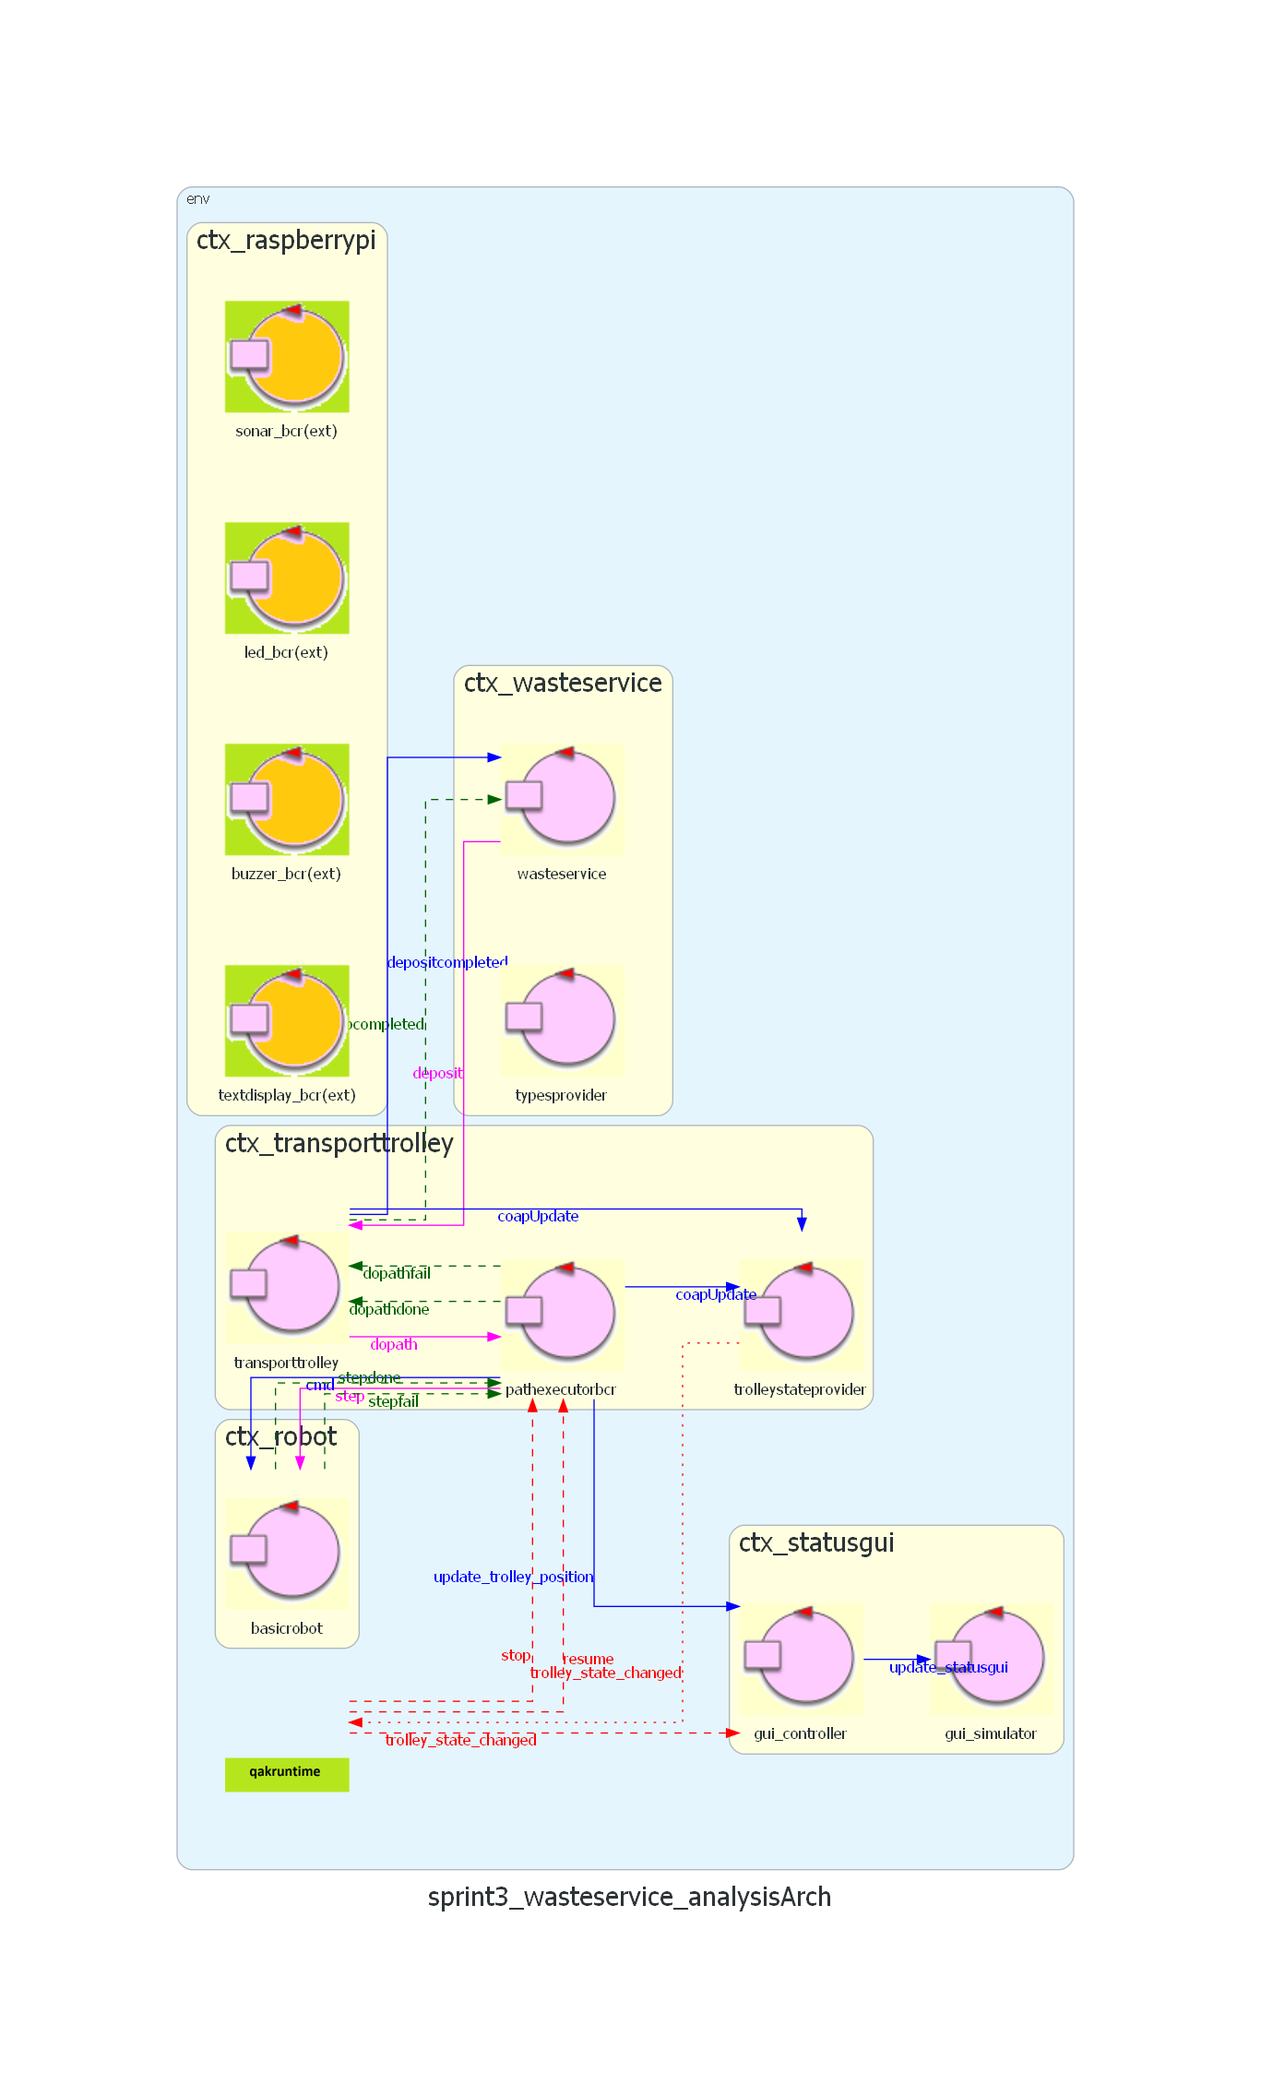
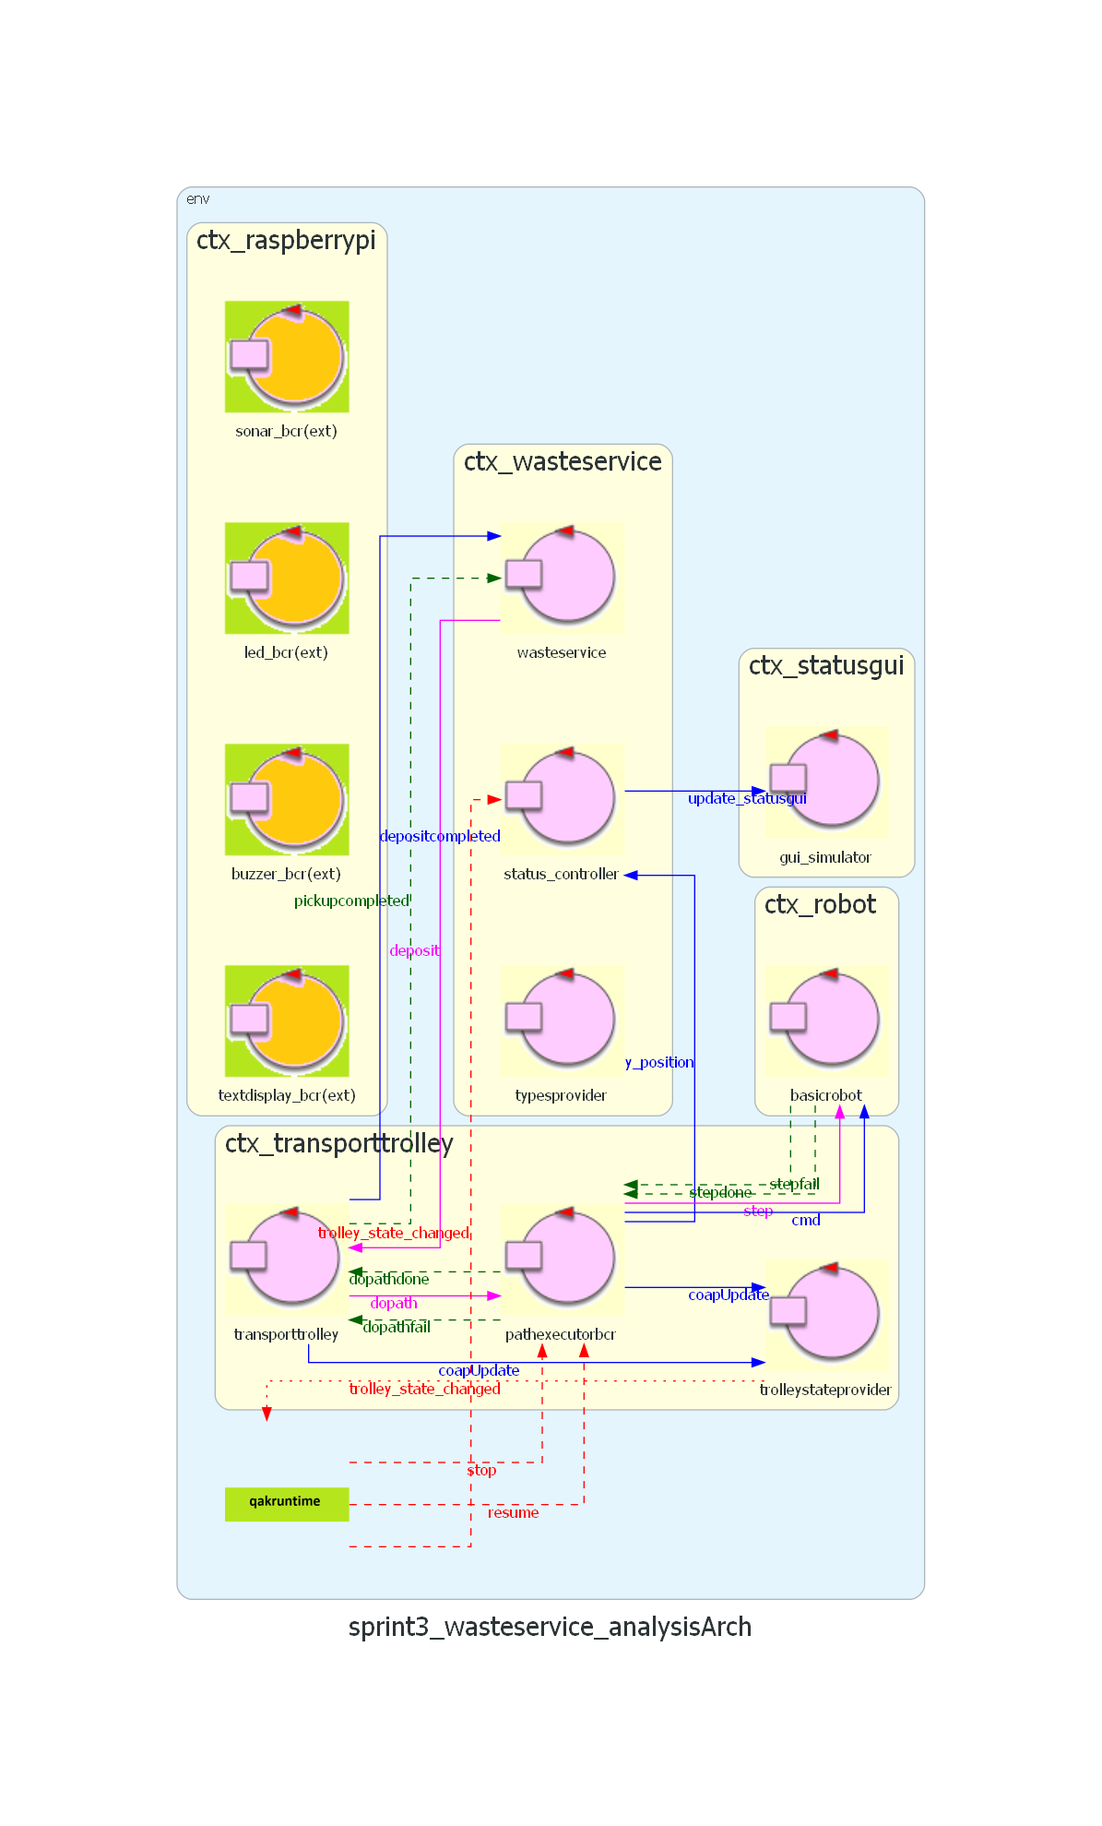
update sprint3 problem analysis

diff --git a/Sprint3/Sprint3_ProblemAnalysis/src/it/unibo/status_controller/Status_controller.kt b/Sprint3/Sprint3_ProblemAnalysis/src/it/unibo/status_controller/Status_controller.kt
@@ -1,0 +1,112 @@
+/* Generated by AN DISI Unibo */ 
+package it.unibo.status_controller
+
+import it.unibo.kactor.*
+import alice.tuprolog.*
+import kotlinx.coroutines.CoroutineScope
+import kotlinx.coroutines.delay
+import kotlinx.coroutines.launch
+import kotlinx.coroutines.runBlocking
+	
+class Status_controller ( name: String, scope: CoroutineScope  ) : ActorBasicFsm( name, scope ){
+
+	override fun getInitialState() : String{
+		return "state_init"
+	}
+	override fun getBody() : (ActorBasicFsm.() -> Unit){
+		val interruptedStateTransitions = mutableListOf<Transition>()
+		
+				var status: wasteservice.gui.StatusUpdate = wasteservice.gui.StatusUpdate()
+		return { //this:ActionBasciFsm
+				state("state_init") { //this:State
+					action { //it:State
+						println("[GUIcontroller] Started.")
+						//genTimer( actor, state )
+					}
+					//After Lenzi Aug2002
+					sysaction { //it:State
+					}	 	 
+					 transition( edgeName="goto",targetState="state_idle", cond=doswitch() )
+				}	 
+				state("state_idle") { //this:State
+					action { //it:State
+						println("[GUIcontroller] Idle.")
+						//genTimer( actor, state )
+					}
+					//After Lenzi Aug2002
+					sysaction { //it:State
+					}	 	 
+					 transition(edgeName="t05",targetState="state_update_storage",cond=whenDispatch("update_ws_storage"))
+					transition(edgeName="t06",targetState="state_update_led",cond=whenEvent("trolley_state_changed"))
+					transition(edgeName="t07",targetState="state_update_tt",cond=whenDispatch("update_trolley_position"))
+				}	 
+				state("state_update_storage") { //this:State
+					action { //it:State
+						if( checkMsgContent( Term.createTerm("update_ws_storage(TYPE,AMOUNT)"), Term.createTerm("update_ws_storage(TYPE,AMOUNT)"), 
+						                        currentMsg.msgContent()) ) { //set msgArgList
+								
+												val WasteType = payloadArg(0)
+												val WasteAmount = payloadArg(1).toDouble()
+								println("[GUIcontroller] Storage state changed: $WasteAmount KG of $WasteType")
+								if(  WasteType == "PLASTIC"  
+								 ){ status.setCurrentPlastic(WasteAmount)  
+								}
+								if(  WasteType == "GLASS"  
+								 ){ status.setCurrentGlass(WasteAmount)  
+								}
+						}
+						//genTimer( actor, state )
+					}
+					//After Lenzi Aug2002
+					sysaction { //it:State
+					}	 	 
+					 transition( edgeName="goto",targetState="state_update_gui", cond=doswitch() )
+				}	 
+				state("state_update_led") { //this:State
+					action { //it:State
+						if( checkMsgContent( Term.createTerm("trolley_state_changed(STATE)"), Term.createTerm("trolley_state_changed(STATE)"), 
+						                        currentMsg.msgContent()) ) { //set msgArgList
+								
+												val NewState = payloadArg(0)
+								println("[GUIcontroller] Trolley state changed: $NewState")
+								 status.setLedState(wasteservice.Utils.getLedStateFromTrolleyState(NewState).toString())  
+								 status.setTransportTrolleyState(NewState)  
+						}
+						//genTimer( actor, state )
+					}
+					//After Lenzi Aug2002
+					sysaction { //it:State
+					}	 	 
+					 transition( edgeName="goto",targetState="state_update_gui", cond=doswitch() )
+				}	 
+				state("state_update_tt") { //this:State
+					action { //it:State
+						if( checkMsgContent( Term.createTerm("update_trolley_position(X,Y)"), Term.createTerm("update_trolley_position(X,Y)"), 
+						                        currentMsg.msgContent()) ) { //set msgArgList
+								
+												val X = payloadArg(0).toInt()
+												val Y = payloadArg(1).toInt()
+								println("[WasteService] Trolley position changed: ($X, $Y)")
+								 status.setTransportTrolleyPosition(X, Y)  
+						}
+						//genTimer( actor, state )
+					}
+					//After Lenzi Aug2002
+					sysaction { //it:State
+					}	 	 
+					 transition( edgeName="goto",targetState="state_update_gui", cond=doswitch() )
+				}	 
+				state("state_update_gui") { //this:State
+					action { //it:State
+						println("[GUIcontroller] Sent a new update for the GUI.")
+						forward("update_statusgui", "update_statusgui" ,"gui_simulator" ) 
+						//genTimer( actor, state )
+					}
+					//After Lenzi Aug2002
+					sysaction { //it:State
+					}	 	 
+					 transition( edgeName="goto",targetState="state_idle", cond=doswitch() )
+				}	 
+			}
+		}
+}

diff --git a/Sprint3/Sprint3_ProblemAnalysis/src/it/unibo/pathexecutorbcr/Pathexecutorbcr.kt b/Sprint3/Sprint3_ProblemAnalysis/src/it/unibo/pathexecutorbcr/Pathexecutorbcr.kt
@@ -42,8 +42,8 @@ class Pathexecutorbcr ( name: String, scope: CoroutineScope  ) : ActorBasicFsm( 
 					//After Lenzi Aug2002
 					sysaction { //it:State
 					}	 	 
-					 transition(edgeName="t014",targetState="state_do_path",cond=whenRequest("dopath"))
-					transition(edgeName="t015",targetState="state_stop",cond=whenEvent("stop"))
+					 transition(edgeName="t017",targetState="state_do_path",cond=whenRequest("dopath"))
+					transition(edgeName="t018",targetState="state_stop",cond=whenEvent("stop"))
 				}	 
 				state("state_do_path") { //this:State
 					action { //it:State
@@ -89,7 +89,7 @@ class Pathexecutorbcr ( name: String, scope: CoroutineScope  ) : ActorBasicFsm( 
 						
 									val X = plannerBCR.get_curPos().first
 									val Y = plannerBCR.get_curPos().second
-						forward("update_trolley_position", "update_trolley_position($X,$Y)" ,"gui_controller" ) 
+						forward("update_trolley_position", "update_trolley_position($X,$Y)" ,"status_controller" ) 
 						//genTimer( actor, state )
 					}
 					//After Lenzi Aug2002
@@ -109,9 +109,9 @@ class Pathexecutorbcr ( name: String, scope: CoroutineScope  ) : ActorBasicFsm( 
 					//After Lenzi Aug2002
 					sysaction { //it:State
 					}	 	 
-					 transition(edgeName="t116",targetState="state_stop",cond=whenEvent("stop"))
-					transition(edgeName="t117",targetState="state_next_move",cond=whenReply("stepdone"))
-					transition(edgeName="t118",targetState="state_end_work_fail",cond=whenReply("stepfail"))
+					 transition(edgeName="t119",targetState="state_stop",cond=whenEvent("stop"))
+					transition(edgeName="t120",targetState="state_next_move",cond=whenReply("stepdone"))
+					transition(edgeName="t121",targetState="state_end_work_fail",cond=whenReply("stepfail"))
 				}	 
 				state("state_do_move_turn") { //this:State
 					action { //it:State
@@ -125,8 +125,8 @@ class Pathexecutorbcr ( name: String, scope: CoroutineScope  ) : ActorBasicFsm( 
 				 	 			scope, context!!, "local_tout_pathexecutorbcr_state_do_move_turn", 350.toLong() )
 				 	 		//}
 					}	 	 
-					 transition(edgeName="t219",targetState="state_next_move",cond=whenTimeout("local_tout_pathexecutorbcr_state_do_move_turn"))   
-					transition(edgeName="t220",targetState="state_stop",cond=whenEvent("stop"))
+					 transition(edgeName="t222",targetState="state_next_move",cond=whenTimeout("local_tout_pathexecutorbcr_state_do_move_turn"))   
+					transition(edgeName="t223",targetState="state_stop",cond=whenEvent("stop"))
 				}	 
 				state("state_end_work_ok") { //this:State
 					action { //it:State
@@ -164,7 +164,7 @@ class Pathexecutorbcr ( name: String, scope: CoroutineScope  ) : ActorBasicFsm( 
 					//After Lenzi Aug2002
 					sysaction { //it:State
 					}	 	 
-					 transition(edgeName="t321",targetState="state_resume",cond=whenEvent("resume"))
+					 transition(edgeName="t324",targetState="state_resume",cond=whenEvent("resume"))
 				}	 
 				state("state_resume") { //this:State
 					action { //it:State

diff --git a/Sprint2/resources/userDocs/problem_analysis.html b/Sprint2/resources/userDocs/problem_analysis.html
@@ -242,7 +242,7 @@ public interface IDistance {
                 <b>Solution</b>: Exploit the project <ksi>it.unibo.radarSystem22.domain</ksi> and/or
                 make changes to it to obtain a more suitable piece of software to be integrated in the
                 system.
-                <br/>
+                <br/><br/>
                 <b>Reasons</b>: the possibility to have simulated devices makes it easier to
                 test the system without having to deploy on a real Raspberry Pi.
                 The project already implements the features we need to satisfy the requirements,
@@ -283,7 +283,7 @@ public interface IDistance {
             <solution>
                 <b>Solution</b>: Hybrid approach, using a <ksi>middle controller</ksi>, which sends 
                 <code>stop</code> and <code>resume</code> events to the system.
-                <br/>
+                <br/><br/>
                 <b>Reasons</b>: the core-business doesn't care about the distance at all.
                 In fact, from the Waste Service perspective,
                 the sonar acts as a simple switch ON/OFF, which indicates if the system
@@ -335,7 +335,7 @@ public interface IDistance {
             <solution>
                 <b>Solution</b>: for each step of the path, check if there is a stop/alarm event <ksi>only at the beginning or
                 at the end of the step</ksi>.
-                <br/>
+                <br/><br/>
                 <b>Reasons</b>: the robot position gets updated only when a step is completed,
                 so it might be easier to make the steps not interruptible; since our map
                 has specific positions, identified by discrete coordinates, that solution
@@ -358,7 +358,7 @@ public interface IDistance {
             <solution>
                 <b>Solution</b>: <ksi>handle the stop and resume from the pathexecutor</ksi> by adding a guard
                 (<code>Transition t# whenEvent stop -> state_stop</code>) in those states that can be interrupted.
-                <br/>
+                <br/><br/>
                 <b>Reasons</b>: ideally we want to act on the transport trolley, but it's busy waiting
                 for the pathexecutor reply, until the path is completed. Therefore, since the pathexecutor
                 is the one responsible for scheduling the steps, to interact with it is the best solution,

diff --git a/Sprint3/Sprint3_ProblemAnalysis/src/it/unibo/transporttrolley/Transporttrolley.kt b/Sprint3/Sprint3_ProblemAnalysis/src/it/unibo/transporttrolley/Transporttrolley.kt
@@ -49,7 +49,7 @@ class Transporttrolley ( name: String, scope: CoroutineScope  ) : ActorBasicFsm(
 					//After Lenzi Aug2002
 					sysaction { //it:State
 					}	 	 
-					 transition(edgeName="t05",targetState="state_handle_deposit_request",cond=whenRequest("deposit"))
+					 transition(edgeName="t08",targetState="state_handle_deposit_request",cond=whenRequest("deposit"))
 				}	 
 				state("state_handle_deposit_request") { //this:State
 					action { //it:State
@@ -85,8 +85,8 @@ class Transporttrolley ( name: String, scope: CoroutineScope  ) : ActorBasicFsm(
 					//After Lenzi Aug2002
 					sysaction { //it:State
 					}	 	 
-					 transition(edgeName="t16",targetState="state_pickup",cond=whenReply("dopathdone"))
-					transition(edgeName="t17",targetState="state_error",cond=whenReply("dopathfail"))
+					 transition(edgeName="t19",targetState="state_pickup",cond=whenReply("dopathdone"))
+					transition(edgeName="t110",targetState="state_error",cond=whenReply("dopathfail"))
 				}	 
 				state("state_pickup") { //this:State
 					action { //it:State
@@ -120,8 +120,8 @@ class Transporttrolley ( name: String, scope: CoroutineScope  ) : ActorBasicFsm(
 					//After Lenzi Aug2002
 					sysaction { //it:State
 					}	 	 
-					 transition(edgeName="t28",targetState="state_dump",cond=whenReply("dopathdone"))
-					transition(edgeName="t29",targetState="state_error",cond=whenReply("dopathfail"))
+					 transition(edgeName="t211",targetState="state_dump",cond=whenReply("dopathdone"))
+					transition(edgeName="t212",targetState="state_error",cond=whenReply("dopathfail"))
 				}	 
 				state("state_dump") { //this:State
 					action { //it:State
@@ -155,8 +155,8 @@ class Transporttrolley ( name: String, scope: CoroutineScope  ) : ActorBasicFsm(
 					//After Lenzi Aug2002
 					sysaction { //it:State
 					}	 	 
-					 transition(edgeName="t310",targetState="state_idle",cond=whenReply("dopathdone"))
-					transition(edgeName="t311",targetState="state_error",cond=whenReply("dopathfail"))
+					 transition(edgeName="t313",targetState="state_idle",cond=whenReply("dopathdone"))
+					transition(edgeName="t314",targetState="state_error",cond=whenReply("dopathfail"))
 				}	 
 				state("state_error") { //this:State
 					action { //it:State

diff --git a/Sprint3/Sprint3_ProblemAnalysis/src/it/unibo/basicrobot/Basicrobot.kt b/Sprint3/Sprint3_ProblemAnalysis/src/it/unibo/basicrobot/Basicrobot.kt
@@ -50,10 +50,10 @@ class Basicrobot ( name: String, scope: CoroutineScope  ) : ActorBasicFsm( name,
 					//After Lenzi Aug2002
 					sysaction { //it:State
 					}	 	 
-					 transition(edgeName="t122",targetState="execcmd",cond=whenDispatch("cmd"))
-					transition(edgeName="t123",targetState="doStep",cond=whenRequest("step"))
-					transition(edgeName="t124",targetState="handleObstacle",cond=whenDispatch("obstacle"))
-					transition(edgeName="t125",targetState="endwork",cond=whenDispatch("end"))
+					 transition(edgeName="t125",targetState="execcmd",cond=whenDispatch("cmd"))
+					transition(edgeName="t126",targetState="doStep",cond=whenRequest("step"))
+					transition(edgeName="t127",targetState="handleObstacle",cond=whenDispatch("obstacle"))
+					transition(edgeName="t128",targetState="endwork",cond=whenDispatch("end"))
 				}	 
 				state("execcmd") { //this:State
 					action { //it:State
@@ -114,8 +114,8 @@ class Basicrobot ( name: String, scope: CoroutineScope  ) : ActorBasicFsm( name,
 				 	 			scope, context!!, "local_tout_basicrobot_doStep", StepTime )
 				 	 		//}
 					}	 	 
-					 transition(edgeName="t026",targetState="stepDone",cond=whenTimeout("local_tout_basicrobot_doStep"))   
-					transition(edgeName="t027",targetState="stepFail",cond=whenDispatch("obstacle"))
+					 transition(edgeName="t029",targetState="stepDone",cond=whenTimeout("local_tout_basicrobot_doStep"))   
+					transition(edgeName="t030",targetState="stepFail",cond=whenDispatch("obstacle"))
 				}	 
 				state("stepDone") { //this:State
 					action { //it:State

diff --git a/Sprint3/Sprint3_ProblemAnalysis/src/it/unibo/trolleystateprovider/Trolleystateprovider.kt b/Sprint3/Sprint3_ProblemAnalysis/src/it/unibo/trolleystateprovider/Trolleystateprovider.kt
@@ -37,8 +37,8 @@ class Trolleystateprovider ( name: String, scope: CoroutineScope  ) : ActorBasic
 					//After Lenzi Aug2002
 					sysaction { //it:State
 					}	 	 
-					 transition(edgeName="t012",targetState="state_update_trolley_state",cond=whenDispatch("coapUpdate"))
-					transition(edgeName="t013",targetState="state_update_trolley_state",cond=whenDispatch("update_trolley_state"))
+					 transition(edgeName="t015",targetState="state_update_trolley_state",cond=whenDispatch("coapUpdate"))
+					transition(edgeName="t016",targetState="state_update_trolley_state",cond=whenDispatch("update_trolley_state"))
 				}	 
 				state("state_update_trolley_state") { //this:State
 					action { //it:State

diff --git a/Sprint3/Sprint3_ProblemAnalysis/src/it/unibo/wasteservice/Wasteservice.kt b/Sprint3/Sprint3_ProblemAnalysis/src/it/unibo/wasteservice/Wasteservice.kt
@@ -134,6 +134,9 @@ class Wasteservice ( name: String, scope: CoroutineScope  ) : ActorBasicFsm( nam
 									WasteService.addToStorage(RequestedWasteType, RequestedWasteWeight)
 									
 									WaitingDeposit = false
+									
+									val CurrAmount = WasteService.getCurrentStorageForWasteType(RequestedWasteType)
+						forward("update_ws_storage", "update_ws_storage(CurrAmount)" ,"status_controller" ) 
 						println("[WasteService] Deposit completed. Current storage:")
 						 WasteService.printFancyStatusString()  
 						//genTimer( actor, state )

diff --git a/Sprint3/Sprint3_ProblemAnalysis/resources/wasteservice/WasteService.kt b/Sprint3/Sprint3_ProblemAnalysis/resources/wasteservice/WasteService.kt
@@ -90,4 +90,10 @@ class WasteService {
             ColorsOut.outappl("${wt.name}: ${preStorage[wt]}/${storage[wt]}/${storageCapacity[wt]}", color)
         }
     }
+
+    fun getCurrentStorageForWasteType(wType: WasteType): Double {
+        if (!storage.contains(wType))
+            return -1.0
+        return storage[wType]!!
+    }
 }

diff --git a/Sprint3/Sprint3_ProblemAnalysis/Arch_sprint3_wasteservice_analysis.py b/Sprint3/Sprint3_ProblemAnalysis/Arch_sprint3_wasteservice_analysis.py
@@ -22,6 +22,7 @@ with Diagram('sprint3_wasteservice_analysisArch', show=False, outformat='png', g
      with Cluster('ctx_wasteservice', graph_attr=nodeattr):
           typesprovider=Custom('typesprovider','./qakicons/symActorSmall.png')
           wasteservice=Custom('wasteservice','./qakicons/symActorSmall.png')
+          status_controller=Custom('status_controller','./qakicons/symActorSmall.png')
      with Cluster('ctx_transporttrolley', graph_attr=nodeattr):
           transporttrolley=Custom('transporttrolley','./qakicons/symActorSmall.png')
           trolleystateprovider=Custom('trolleystateprovider','./qakicons/symActorSmall.png')
@@ -34,9 +35,11 @@ with Diagram('sprint3_wasteservice_analysisArch', show=False, outformat='png', g
           buzzer_bcr=Custom('buzzer_bcr(ext)','./qakicons/externalQActor.png')
           textdisplay_bcr=Custom('textdisplay_bcr(ext)','./qakicons/externalQActor.png')
      with Cluster('ctx_statusgui', graph_attr=nodeattr):
-          gui_controller=Custom('gui_controller','./qakicons/symActorSmall.png')
           gui_simulator=Custom('gui_simulator','./qakicons/symActorSmall.png')
      wasteservice >> Edge(color='magenta', style='solid', xlabel='deposit', fontcolor='magenta') >> transporttrolley
+     wasteservice >> Edge(color='blue', style='solid', xlabel='update_ws_storage', fontcolor='blue') >> status_controller
+     sys >> Edge(color='red', style='dashed', xlabel='trolley_state_changed', fontcolor='red') >> status_controller
+     status_controller >> Edge(color='blue', style='solid', xlabel='update_statusgui', fontcolor='blue') >> gui_simulator
      transporttrolley >> Edge(color='magenta', style='solid', xlabel='dopath', fontcolor='magenta') >> pathexecutorbcr
      transporttrolley >> Edge(color='darkgreen', style='dashed', xlabel='pickupcompleted', fontcolor='darkgreen') >> wasteservice
      transporttrolley >> Edge(color='blue', style='solid', xlabel='depositcompleted', fontcolor='blue') >> wasteservice
@@ -44,7 +47,7 @@ with Diagram('sprint3_wasteservice_analysisArch', show=False, outformat='png', g
      pathexecutorbcr >> Edge(color='blue', style='solid', xlabel='coapUpdate', fontcolor='blue') >> trolleystateprovider
      trolleystateprovider >> Edge( xlabel='trolley_state_changed', **eventedgeattr, fontcolor='red') >> sys
      sys >> Edge(color='red', style='dashed', xlabel='stop', fontcolor='red') >> pathexecutorbcr
-     pathexecutorbcr >> Edge(color='blue', style='solid', xlabel='update_trolley_position', fontcolor='blue') >> gui_controller
+     pathexecutorbcr >> Edge(color='blue', style='solid', xlabel='update_trolley_position', fontcolor='blue') >> status_controller
      pathexecutorbcr >> Edge(color='magenta', style='solid', xlabel='step', fontcolor='magenta') >> basicrobot
      pathexecutorbcr >> Edge(color='blue', style='solid', xlabel='cmd', fontcolor='blue') >> basicrobot
      pathexecutorbcr >> Edge(color='darkgreen', style='dashed', xlabel='dopathdone', fontcolor='darkgreen') >> transporttrolley
@@ -52,6 +55,4 @@ with Diagram('sprint3_wasteservice_analysisArch', show=False, outformat='png', g
      sys >> Edge(color='red', style='dashed', xlabel='resume', fontcolor='red') >> pathexecutorbcr
      basicrobot >> Edge(color='darkgreen', style='dashed', xlabel='stepdone', fontcolor='darkgreen') >> pathexecutorbcr
      basicrobot >> Edge(color='darkgreen', style='dashed', xlabel='stepfail', fontcolor='darkgreen') >> pathexecutorbcr
-     sys >> Edge(color='red', style='dashed', xlabel='trolley_state_changed', fontcolor='red') >> gui_controller
-     gui_controller >> Edge(color='blue', style='solid', xlabel='update_statusgui', fontcolor='blue') >> gui_simulator
 diag
